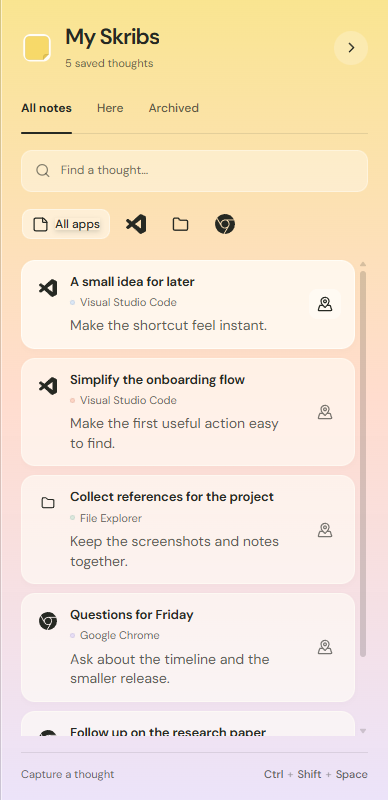
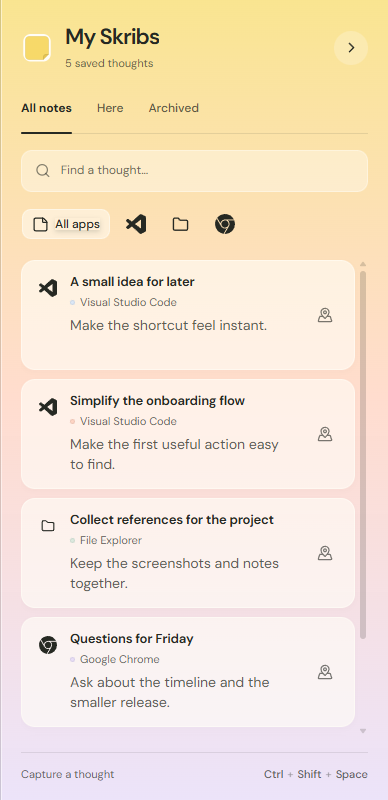
Use uniform widget card dimensions for ARC-66

diff --git a/apps/desktop/src/styles/context-rail.css b/apps/desktop/src/styles/context-rail.css
@@ -805,7 +805,9 @@ html[data-skribly-window='context-rail'] #root,
 .context-rail.expanded.global-shelf .ribbon-fan::-webkit-scrollbar-track { background: transparent; }
 .context-rail.expanded.global-shelf .ribbon-fan::-webkit-scrollbar-thumb { background-color: rgb(38 41 35 / 18%); }
 .context-rail.expanded.global-shelf .skrib-ribbon {
-  min-height: 86px;
+  height: 110px;
+  min-height: 110px;
+  max-height: 110px;
   border: 1px solid rgb(255 253 247 / 56%);
   border-radius: 14px;
   background: rgb(255 253 247 / 62%);
@@ -820,6 +822,7 @@ html[data-skribly-window='context-rail'] #root,
   background: rgb(255 253 247 / 78%);
 }
 .context-rail.expanded.global-shelf .skrib-ribbon-read {
+  min-height: 0;
   padding: 12px 11px;
   gap: 10px;
   align-items: start;
@@ -832,12 +835,12 @@ html[data-skribly-window='context-rail'] #root,
   background: transparent;
 }
 .context-rail.expanded.global-shelf .skrib-ribbon-mark .ribbon-app-icon { width: 18px; height: 18px; }
-.context-rail.expanded.global-shelf .skrib-ribbon-copy { min-width: 0; gap: 4px; }
+.context-rail.expanded.global-shelf .skrib-ribbon-copy { min-width: 0; min-height: 0; gap: 4px; }
 .context-rail.expanded.global-shelf .skrib-ribbon-copy strong {
   font: 600 13px/1.4 var(--font-ui);
   letter-spacing: -.012em;
   display: -webkit-box;
-  -webkit-line-clamp: 2;
+  -webkit-line-clamp: 1;
   -webkit-box-orient: vertical;
   white-space: normal;
   overflow: hidden;

diff --git a/apps/desktop/src/features/rail/ContextRail.tsx b/apps/desktop/src/features/rail/ContextRail.tsx
@@ -526,7 +526,7 @@ export const ContextRail: React.FC<{ contextual: boolean; previewNotes?: SkribNo
               disabled={openingId !== null} title={scope === 'archive' ? 'Return this Skrib to your active notes' : 'Open this Skrib beside the ribbon'}>
               <span className="skrib-ribbon-mark" aria-hidden="true"><ContextIcon processName={note.target_process_name ?? ''}
                 iconUrl={appIcons[(note.target_process_name ?? '').toLowerCase()]} /></span>
-              <span className="skrib-ribbon-copy"><strong>{noteTitle(note)}</strong>
+              <span className="skrib-ribbon-copy"><strong title={!contextualDock ? noteTitle(note) : undefined}>{noteTitle(note)}</strong>
                 <small title={note.target_title || undefined}>{!contextualDock && <span className="global-note-tone" aria-hidden="true" />}<span className={!contextualDock ? 'global-note-context' : undefined}>{note.target_title || applicationLabel(note.target_process_name)}</span></small>
                 {!contextualDock && note.text.trim().includes('\n') && <span className="global-note-preview">{note.text.trim().split(/\r?\n/).slice(1).join(' ')}</span>}
                 {contextualDock && <span className="skrib-card-preview">{note.text.trim() || 'A little room for your next thought.'}</span>}

diff --git a/docs/04-operations/WIDGET_VISUAL_POLISH_2026-10-02.md b/docs/04-operations/WIDGET_VISUAL_POLISH_2026-10-02.md
@@ -12,7 +12,7 @@ The preceding panel combined boxed scope tabs, boxed app filters, count badges, 
 - Replace thick card accents with small note-colour dots. Use a consistent interface font for library previews; the note editor and contextual shelf retain their existing handwriting treatment.
 - Refine header, search, card and footer spacing. Keep context titles available through tooltips and ellipsis.
 - Explicitly preserve dark return-action icons on hover; the inherited white icon colour was inappropriate for the light card surface.
-- Following the owner's clarification, restore the preceding card width, minimum height, content padding/line-height and icon dimensions. Keep the refined decoration and interface-font preview. The 388 px comparison fixture has identical measured card bounds before/after: width 334 px, first card 89.078125 px high and the remaining four 108.671875 px high. App-filter marks remain 20 × 20 px; card marks remain 18 × 18 px. This preserves the existing content-driven height model rather than imposing a new fixed height.
+- Following the owner's final clarification, make every card the same height and width instead of preserving different content-driven heights. Use a fixed 110 px card height and the existing full-width column (334 px at a 388 px viewport). Keep titles to one line and previews to two lines; full titles remain accessible through the button label and title tooltip. Preserve the preceding app-logo dimensions: filter marks 20 × 20 px; card marks 18 × 18 px. This supersedes the intermediate interpretation of matching each old content-driven height.
 
 Native reveal, placement, account, entitlement and storage behaviour are unchanged. No new dependency, remote icon request, background task or schema migration.
 
@@ -20,7 +20,7 @@ Native reveal, placement, account, entitlement and storage behaviour are unchang
 
 - [Before](../01-design/evidence/arc-66/widget-polish-before.png) and [after](../01-design/evidence/arc-66/widget-polish-after.png): the actual ContextRail component at 388 × 800, with five non-persistent sample notes. These are browser fixtures, not installed Windows screenshots.
 - [320 × 480 layout](../01-design/evidence/arc-66/widget-polish-narrow.png): panel/scroll width 319 px, note area scrolls; controls remain within the viewport.
-- [Measured bounds comparison](../01-design/evidence/arc-66/widget-polish-bounds.json): the same actual-component sample data, previous rail stylesheet compared with the final stylesheet after awaiting fonts. All five card rectangles and all six app-logo rectangles match at 388 × 800.
+- [Measured bounds comparison](../01-design/evidence/arc-66/widget-polish-bounds.json): the same actual-component sample data, previous rail stylesheet compared with the final stylesheet after awaiting fonts. All five final cards are 334 × 110 px at 388 × 800. All six app-logo rectangles retain their preceding dimensions.
 - Hover inspection: return icon `rgb(38, 41, 35)` against a light translucent background. App-filter `aria-pressed` reports only All apps selected in the default view.
 - TypeScript, six global rail dismissal/focus tests, production build and React/runtime/theme/compact validators pass. Existing bundle-size warning remains. Full current-head CI and Windows storage acceptance are required before source/delivery merge.
 
